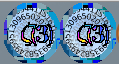
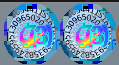
PiDay theme, updated the other two math constant themes

diff --git a/README.md b/README.md
@@ -84,6 +84,7 @@ eye set as a Halloween-themed tribute to the band.
 
 ### PiDay theme
 
+<img src="https://github.com/maxieds/GEyesThemes/blob/master/screenshots/PiDay.png" />
 
 ### Apery theme (digits of the zeta(3) constant)
 
